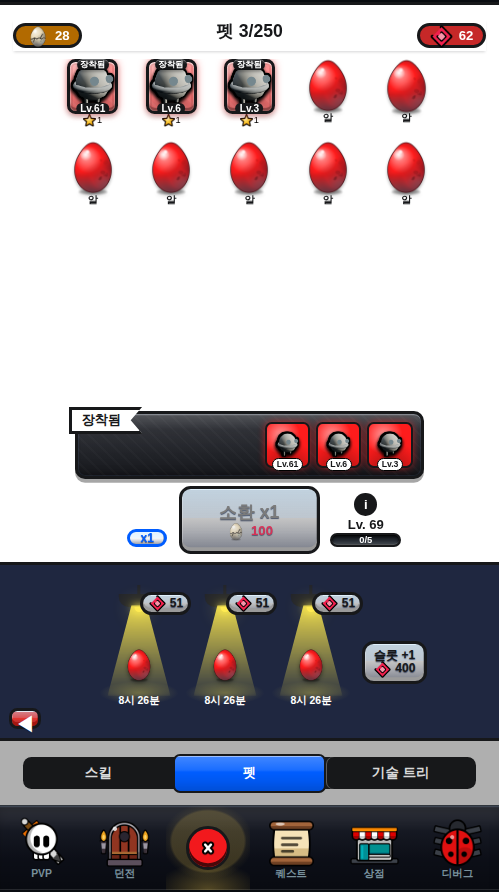
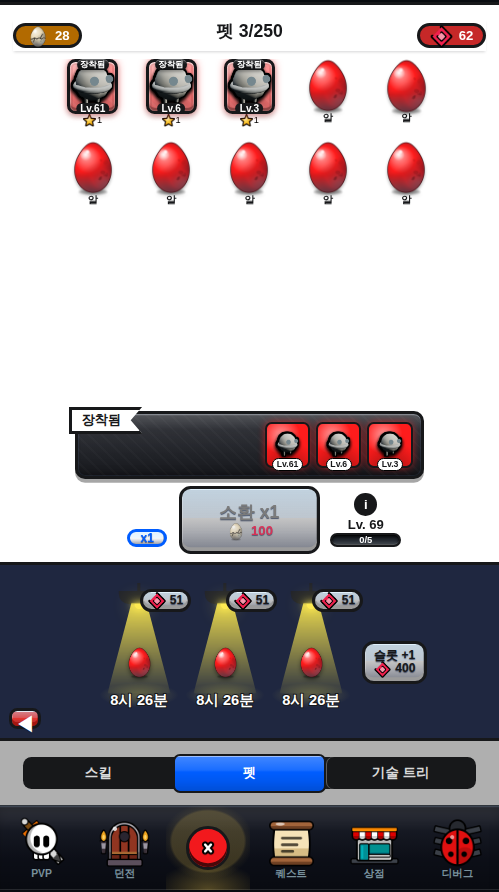
부화 슬롯 타이머 글자를 원본 크기·외곽선으로 (ui-ratio-audit ⓐ)
비평가 2인 교집합 지적. 두 원본(042356·042445)을 같은 픽셀 코드로 재니 흰 코어
잉크가 높이 13px(2.65%W) · 폭 52~54px(10.6~10.9%W)로 일치하는데 클론은
40×9px(8.02×1.80%W)이었다. 원본은 검정 1px 테를 두른 굵은 흰 글자인데
클론엔 테가 아예 없었다.

.62rem → .87rem + paint-order:stroke fill 로 흰 코어를 안 먹는 3px 스트로크.
교정 후 폭 11.22%W(Δ+0.34) · 높이 2.40%W(Δ-0.25) 로 둘 다 ±2%p 안에 든다.
타이머 세로 위치도 Δ+1.52 → +1.23%p 로 함께 가까워졌다.

Claude-Session: https://claude.ai/code/session_0155J2EwHXMdPcsLd29Q3KLP

diff --git a/web/css/style.css b/web/css/style.css
@@ -4012,7 +4012,15 @@ body {
 .hatch-cell.empty { color: #8b96b5; font-size: .65rem; justify-content: flex-end; min-height: 8.6rem; }
 .hatch-hint { position: relative; z-index: 1; }
 .hatch-cell .hatch-egg { position: relative; z-index: 1; font-size: 1.7rem; margin-top: .5rem; filter: drop-shadow(0 .15rem .12rem rgba(0,0,0,.45)); }
-.hatch-cell .hatch-time { position: relative; z-index: 1; font-size: .62rem; font-weight: 900; color: #fff; white-space: nowrap; }
+/* 원본(042356·042445) 타이머 글자는 **검정 외곽선을 두른 굵은 흰 글자**이고 클론보다 확실히 크다
+   — 비평가 2인 교집합 지적(폭 −2.74~−3.05%p · "글자가 작다"). 두 원본을 같은 픽셀 코드로 재니
+   흰 코어 잉크가 **높이 13px(2.65%W) · 폭 52~54px(10.6~10.9%W)** 로 일치했고(042356 52 / 042445 53.3),
+   클론은 40px(8.02%W) × 9px(1.80%W) 였다. 외곽선은 바탕(휘도 39) 보다 어두운 휘도 0~8 의 1px 테로,
+   글리프 안쪽 여백에도 들어간다 → `paint-order: stroke fill` 로 흰 코어를 안 먹는 2px 스트로크. */
+.hatch-cell .hatch-time {
+    position: relative; z-index: 1; font-size: .87rem; font-weight: 900; color: #fff; white-space: nowrap;
+    -webkit-text-stroke: var(--ol3) #17181a; paint-order: stroke fill;
+}
 /* 젬 스킵 필을 흐름에서 빼 칸 우상단 오버레이로 — 원본(042445) 칸은 타이머가 맨 아래(79.3%H)인데
    필이 타이머 밑 흐름에 있으면 타이머가 76.0%H 로 3%p 위로 밀린다(전수 검증 채점 2차 2인 공통,
    픽셀 교차검증). 기능(QA 차수들이 실측하는 '젬 스킵')은 그대로 살린다. */
